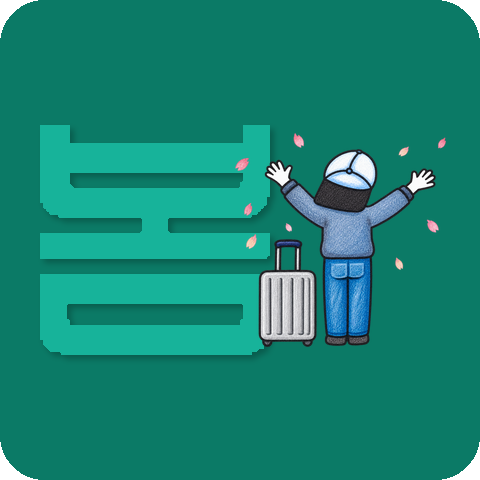
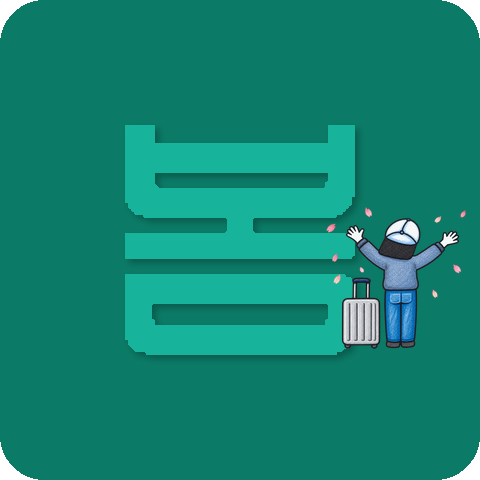
봄 카드: 로고 네모와 같은 크기로 중앙 배치, 캐릭터는 축소해 옆으로
- 봄 글자를 다른 세 칸의 네모(FRAME)와 동일한 크기·위치로 정중앙 배치해
  로고처럼 네 칸이 나란히 모이는 느낌으로 수정
- 캐릭터는 62% 크기로 줄여 오른쪽 여백에 세우고 액자 바닥에 맞춰 정렬
- ch-spring.png를 원본에서 다시 트림 후 팔레트 양자화로 압축
  (856KB → 93KB, 실사용 크기 대비 과대한 해상도였음, 육안 화질 차이 없음)
- 로고 설명 위/아래 문구를 짧고 임팩트 있게 정리

cache-busting 버전 20260811h → 20260811i

diff --git a/about.html b/about.html
@@ -9,7 +9,7 @@
   <link rel="alternate" hreflang="en" href="https://nrhoon777.github.io/ddobom-website/en/about.html" />
   <link rel="alternate" hreflang="x-default" href="https://nrhoon777.github.io/ddobom-website/about.html" />
   <link rel="icon" type="image/png" href="assets/img/logo-square.png" />
-  <link rel="stylesheet" href="assets/css/style.css?v=20260811h" />
+  <link rel="stylesheet" href="assets/css/style.css?v=20260811i" />
 </head>
 <body>
   <a href="#main" class="skip-link">본문 바로가기</a>
@@ -292,7 +292,7 @@
         <div class="an-logo">
           <img class="an-logo__mark" src="assets/img/logo-square.png"
                alt="또봄 로고 — 네 개의 네모와 '봄' 글자, I SEE U AGAIN" loading="lazy" />
-          <p class="an-logo__lead">로고의 <strong>네 개의 네모</strong>는 한 사람이 지나온 시간입니다.<br />왼쪽 위에서 시계 방향으로 읽습니다.</p>
+          <p class="an-logo__lead">네 개의 네모, <strong>한 사람의 사계절</strong>입니다.</p>
           <ol class="season">
             <li class="season__it s-summer">
               <img class="season__img" src="assets/img/season-summer.png"
@@ -320,8 +320,8 @@
             </li>
           </ol>
           <p class="an-illus-src">
-            암을 만나기 전 건강하던 날에서 시작해, 진단과 치료를 지나, 다시 봄에 닿습니다.<br />
-            암 경험자가 지나는 이 시간을 <strong>그 건강한 모습을 다시 보고 싶다는 마음</strong>으로 로고에 담았습니다.
+            건강하던 날에서 진단과 치료를 지나, 다시 봄.<br />
+            <strong>그 모습을 다시 보고 싶은 마음</strong>을 로고에 담았습니다.
           </p>
         </div>
 
@@ -483,6 +483,6 @@
     </div>
   </footer>
 
-  <script src="assets/js/main.js?v=20260811h"></script>
+  <script src="assets/js/main.js?v=20260811i"></script>
 </body>
 </html>

diff --git a/letter-2026-summer.html b/letter-2026-summer.html
@@ -7,7 +7,7 @@
   <meta name="description" content="여름은 다들 떠나는 계절입니다. 그 여름에 병실에 있는 사람에게 보내는 편지. 페루 마추픽추, 산정특례 30일 규칙과 연말정산 장애인 공제, 그리고 2025년에 한 일." />
   <link rel="alternate" hreflang="ko" href="https://nrhoon777.github.io/ddobom-website/letter-2026-summer.html" />
   <link rel="icon" type="image/png" href="assets/img/logo-square.png" />
-  <link rel="stylesheet" href="assets/css/style.css?v=20260811h" />
+  <link rel="stylesheet" href="assets/css/style.css?v=20260811i" />
 </head>
 <body>
   <a href="#main" class="skip-link">본문 바로가기</a>
@@ -339,6 +339,6 @@
     </div>
   </footer>
 
-  <script src="assets/js/main.js?v=20260811h"></script>
+  <script src="assets/js/main.js?v=20260811i"></script>
 </body>
 </html>

diff --git a/letters.html b/letters.html
@@ -7,7 +7,7 @@
   <meta name="description" content="계절마다 한 번, 네 번에 걸쳐 한 해를 도는 또봄의 편지. 여름·가을·겨울·봄, 또봄 로고의 네 네모와 같은 순서입니다." />
   <link rel="alternate" hreflang="ko" href="https://nrhoon777.github.io/ddobom-website/letters.html" />
   <link rel="icon" type="image/png" href="assets/img/logo-square.png" />
-  <link rel="stylesheet" href="assets/css/style.css?v=20260811h" />
+  <link rel="stylesheet" href="assets/css/style.css?v=20260811i" />
 </head>
 <body>
   <a href="#main" class="skip-link">본문 바로가기</a>
@@ -164,6 +164,6 @@
     </div>
   </footer>
 
-  <script src="assets/js/main.js?v=20260811h"></script>
+  <script src="assets/js/main.js?v=20260811i"></script>
 </body>
 </html>

diff --git a/travel-peru.html b/travel-peru.html
@@ -7,7 +7,7 @@
   <meta name="description" content="이카, 나스카, 마추픽추, 쿠스코, 우유니, 69호수. 회복기의 몸을 기준으로 고도순으로 정리한 페루 여행 안내입니다." />
   <link rel="alternate" hreflang="ko" href="https://nrhoon777.github.io/ddobom-website/travel-peru.html" />
   <link rel="icon" type="image/png" href="assets/img/logo-square.png" />
-  <link rel="stylesheet" href="assets/css/style.css?v=20260811h" />
+  <link rel="stylesheet" href="assets/css/style.css?v=20260811i" />
 </head>
 <body>
   <a href="#main" class="skip-link">본문 바로가기</a>
@@ -216,6 +216,6 @@
     </div>
   </footer>
 
-  <script src="assets/js/main.js?v=20260811h"></script>
+  <script src="assets/js/main.js?v=20260811i"></script>
 </body>
 </html>

diff --git a/story-bucketbook.html b/story-bucketbook.html
@@ -7,7 +7,7 @@
   <meta name="description" content="말기암을 이겨낸 뒤 떠난 80일간의 여행. 그 사진으로 만든 포토북을 병원에 전한 2018년 프로젝트 기록입니다." />
   <link rel="alternate" hreflang="ko" href="https://nrhoon777.github.io/ddobom-website/story-bucketbook.html" />
   <link rel="icon" type="image/png" href="assets/img/logo-square.png" />
-  <link rel="stylesheet" href="assets/css/style.css?v=20260811h" />
+  <link rel="stylesheet" href="assets/css/style.css?v=20260811i" />
 </head>
 <body>
   <a href="#main" class="skip-link">본문 바로가기</a>
@@ -238,6 +238,6 @@
     </div>
   </footer>
 
-  <script src="assets/js/main.js?v=20260811h"></script>
+  <script src="assets/js/main.js?v=20260811i"></script>
 </body>
 </html>

diff --git a/index.html b/index.html
@@ -12,7 +12,7 @@
   <link rel="alternate" hreflang="en" href="https://nrhoon777.github.io/ddobom-website/en/index.html" />
   <link rel="alternate" hreflang="x-default" href="https://nrhoon777.github.io/ddobom-website/index.html" />
   <link rel="icon" type="image/png" href="assets/img/logo-square.png" />
-  <link rel="stylesheet" href="assets/css/style.css?v=20260811h" />
+  <link rel="stylesheet" href="assets/css/style.css?v=20260811i" />
 </head>
 <body>
   <a href="#main" class="skip-link">본문 바로가기</a>
@@ -448,7 +448,7 @@
     </div>
   </footer>
 
-  <script src="assets/js/main.js?v=20260811h"></script>
+  <script src="assets/js/main.js?v=20260811i"></script>
   <script type="module" src="assets/js/news-loader.js?v=20260807f"></script>
 </body>
 </html>

diff --git a/story-cheerup.html b/story-cheerup.html
@@ -7,7 +7,7 @@
   <meta name="description" content="암 경험자와 시민이 한자리에서 이야기하고 노래하는 토크·싱 콘서트. 2023년부터 네 번 열린 기록입니다." />
   <link rel="alternate" hreflang="ko" href="https://nrhoon777.github.io/ddobom-website/story-cheerup.html" />
   <link rel="icon" type="image/png" href="assets/img/logo-square.png" />
-  <link rel="stylesheet" href="assets/css/style.css?v=20260811h" />
+  <link rel="stylesheet" href="assets/css/style.css?v=20260811i" />
 </head>
 <body>
   <a href="#main" class="skip-link">본문 바로가기</a>
@@ -167,6 +167,6 @@
     </div>
   </footer>
 
-  <script src="assets/js/main.js?v=20260811h"></script>
+  <script src="assets/js/main.js?v=20260811i"></script>
 </body>
 </html>

diff --git a/story-gift-2020.html b/story-gift-2020.html
@@ -7,7 +7,7 @@
   <meta name="description" content="코로나로 만남이 어려웠던 2020년 겨울, 투병 중인 청년에게 여행 포토북을 보낸 캠페인 기록입니다." />
   <link rel="alternate" hreflang="ko" href="https://nrhoon777.github.io/ddobom-website/story-gift-2020.html" />
   <link rel="icon" type="image/png" href="assets/img/logo-square.png" />
-  <link rel="stylesheet" href="assets/css/style.css?v=20260811h" />
+  <link rel="stylesheet" href="assets/css/style.css?v=20260811i" />
 </head>
 <body>
   <a href="#main" class="skip-link">본문 바로가기</a>
@@ -133,6 +133,6 @@
     </div>
   </footer>
 
-  <script src="assets/js/main.js?v=20260811h"></script>
+  <script src="assets/js/main.js?v=20260811i"></script>
 </body>
 </html>

diff --git a/en/story-bucketbook.html b/en/story-bucketbook.html
@@ -8,7 +8,7 @@
   <link rel="alternate" hreflang="ko" href="https://nrhoon777.github.io/ddobom-website/story-bucketbook.html" />
   <link rel="alternate" hreflang="en" href="https://nrhoon777.github.io/ddobom-website/en/story-bucketbook.html" />
   <link rel="icon" type="image/png" href="../assets/img/logo-square.png" />
-  <link rel="stylesheet" href="../assets/css/style.css?v=20260811h" />
+  <link rel="stylesheet" href="../assets/css/style.css?v=20260811i" />
 </head>
 <body>
   <a href="#main" class="skip-link">Skip to content</a>
@@ -273,6 +273,6 @@
     </div>
   </footer>
 
-  <script src="../assets/js/main.js?v=20260811h"></script>
+  <script src="../assets/js/main.js?v=20260811i"></script>
 </body>
 </html>

diff --git a/en/story-gift-2020.html b/en/story-gift-2020.html
@@ -8,7 +8,7 @@
   <link rel="alternate" hreflang="ko" href="https://nrhoon777.github.io/ddobom-website/story-gift-2020.html" />
   <link rel="alternate" hreflang="en" href="https://nrhoon777.github.io/ddobom-website/en/story-gift-2020.html" />
   <link rel="icon" type="image/png" href="../assets/img/logo-square.png" />
-  <link rel="stylesheet" href="../assets/css/style.css?v=20260811h" />
+  <link rel="stylesheet" href="../assets/css/style.css?v=20260811i" />
 </head>
 <body>
   <a href="#main" class="skip-link">Skip to content</a>
@@ -174,6 +174,6 @@
     </div>
   </footer>
 
-  <script src="../assets/js/main.js?v=20260811h"></script>
+  <script src="../assets/js/main.js?v=20260811i"></script>
 </body>
 </html>

diff --git a/en/story-cheerup.html b/en/story-cheerup.html
@@ -8,7 +8,7 @@
   <link rel="alternate" hreflang="ko" href="https://nrhoon777.github.io/ddobom-website/story-cheerup.html" />
   <link rel="alternate" hreflang="en" href="https://nrhoon777.github.io/ddobom-website/en/story-cheerup.html" />
   <link rel="icon" type="image/png" href="../assets/img/logo-square.png" />
-  <link rel="stylesheet" href="../assets/css/style.css?v=20260811h" />
+  <link rel="stylesheet" href="../assets/css/style.css?v=20260811i" />
 </head>
 <body>
   <a href="#main" class="skip-link">Skip to content</a>
@@ -205,6 +205,6 @@
     </div>
   </footer>
 
-  <script src="../assets/js/main.js?v=20260811h"></script>
+  <script src="../assets/js/main.js?v=20260811i"></script>
 </body>
 </html>

diff --git a/en/programs.html b/en/programs.html
@@ -9,7 +9,7 @@
   <link rel="alternate" hreflang="en" href="https://nrhoon777.github.io/ddobom-website/en/programs.html" />
   <link rel="alternate" hreflang="x-default" href="https://nrhoon777.github.io/ddobom-website/programs.html" />
   <link rel="icon" type="image/png" href="../assets/img/logo-square.png" />
-  <link rel="stylesheet" href="../assets/css/style.css?v=20260811h" />
+  <link rel="stylesheet" href="../assets/css/style.css?v=20260811i" />
 </head>
 <body>
   <a href="#main" class="skip-link">Skip to content</a>
@@ -309,6 +309,6 @@
     </div>
   </footer>
 
-  <script src="../assets/js/main.js?v=20260811h"></script>
+  <script src="../assets/js/main.js?v=20260811i"></script>
 </body>
 </html>
